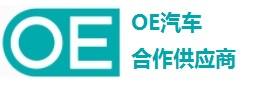
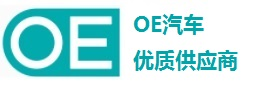
bugfix

Changed region(s): [[0.498, 0.5227, 0.9407, 0.8182], [0.498, 0.1364, 0.83, 0.4091]]

diff --git a/src/App.vue b/src/App.vue
@@ -19,7 +19,7 @@
       <div class="main clearfix">
 	  	<div class="supplier_panel clearfix">
     		<h3>
-        		<span>合作供应商推荐</span>
+        		<span>优质供应商推荐</span>
     		</h3>
       			<ul v-for="element in listElement">
 					<li>
